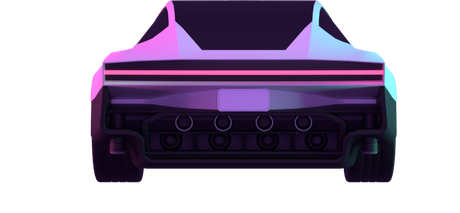
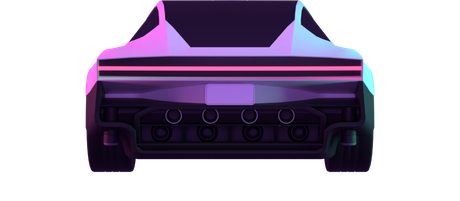
Car centred on a slightly wider road; CPU chip on screen on the site (#52)
* Even spacing between Featured Work and Stack cards

Cards were written in pairs with a blank line between pairs, so on a phone
the gap inside a pair was tiny and the gap between pairs was a full
paragraph. All cards now sit in one block, and each card SVG carries a
6px built-in margin so every gap is the same, stacked or side by side.

Claude-Session: https://claude.ai/code/session_014y4cba1N6RJ7D9zfaNMGCJ

* Even spacing between Focus Areas cards

The three Focus Areas cards stacked touching on a phone. They now carry
the same 6px built-in margin as the project and Stack cards; the desktop
cards are 12px narrower so, margin included, three still fit in a row.

Claude-Session: https://claude.ai/code/session_014y4cba1N6RJ7D9zfaNMGCJ

* Export the hero scene and contribution city for markusweldon.com

build_images.py takes an optional second folder and writes the site
hero's horizon strips there: the same Portland skyline, Mt Hood and
Silicon Forest as the README header, on a transparent background, with
Hood solid so it can stand in front of the site's sun. The scene's
gradients and filters move into SCENE_DEFS so both use them. The README
images are unchanged.

The metrics workflow also cuts the isometric contribution city out of
the Stats card each day (extract_isocalendar.py) and publishes it as
isocalendar.svg on the metrics branch, for the site to show.

Claude-Session: https://claude.ai/code/session_014y4cba1N6RJ7D9zfaNMGCJ
[…]

diff --git a/.github/scripts/build_images.py b/.github/scripts/build_images.py
@@ -645,7 +645,7 @@ def silicon_fir(x: float, h: float, w: float, base: float) -> tuple[str, str, li
             boughs)
 
 
-def treeline(avoid=(), clear=None, density: float = 1, thin: bool = True) -> str:
+def treeline(avoid=(), clear=None, density: float = 1, thin: bool = True, cpu_near: float | None = None) -> str:
     """The Silicon Forest: circuit-trace firs along the horizon. Trees under
     the text are kept below it, and none stand in front of the city
     (clear = its x range)."""
@@ -711,7 +711,11 @@ def treeline(avoid=(), clear=None, density: float = 1, thin: bool = True) -> str
     left_side = [t for t in front if t[1] > 22 and (not clear or t[0] < clear[0] - 10) and t[0] > 40]
     pick = left_side or [t for t in front if t[1] > 22 and t[0] > 40]
     if pick:
-        x, _, _ = pick[len(pick) // 2]
+        # By default the middle of the trees left of the city; cpu_near picks
+        # the one nearest that x instead (the site's wide strip is mostly
+        # off-screen, so it asks for one close to the city).
+        x, _, _ = (min(pick, key=lambda t: abs(t[0] - cpu_near)) if cpu_near is not None
+                   else pick[len(pick) // 2])
         size = 13
         cx, cy = x - 9 - size, HORIZON - size - 3
         pins = []
@@ -776,7 +780,7 @@ def grid() -> tuple[str, str]:
     The receding lines fan out across the whole width at the horizon (none
     stop short of the sides), and the rolling lines start right at the
     horizon, so there's no empty band beneath it.
-    Down the middle runs a neon road about two car-widths wide: a darker
+    Down the middle runs a neon road under three car-widths wide: a darker
     surface between two glowing pink edges, crossed by the rolling lines."""
     parts = []
     reach = math.ceil(HW / 2 / 14) + 2      # enough receding lines to cover the horizon edge to edge
@@ -799,9 +803,10 @@ def grid() -> tuple[str, str]:
                      f'style="animation-delay:-{k * period:.2f}s"/>')
         y = HORIZON + depth / far ** (1 - (k + 0.5) / lines)
         parts.append(f'<line class="hs" x1="0" y1="{y:.1f}" x2="{HW}" y2="{y:.1f}"/>')
-    # The road's edges follow receding lines +-1, so where the car sits it is
-    # about twice the car's width.
-    l0, l1, r0, r1 = HW / 2 - 14, HW / 2 - 150, HW / 2 + 14, HW / 2 + 150
+    # The road's edges sit ROAD receding-line spacings either side of the
+    # centre, so where the car sits it is about 2.7 car widths wide.
+    ROAD = 1.35
+    l0, l1, r0, r1 = HW / 2 - 14 * ROAD, HW / 2 - 150 * ROAD, HW / 2 + 14 * ROAD, HW / 2 + 150 * ROAD
     parts.append(f'<defs><linearGradient id="roadFill" x1="0" y1="0" x2="0" y2="1">'
                  f'<stop offset="0" stop-color="{BG}" stop-opacity="0.35"/>'
                  f'<stop offset="1" stop-color="{BG}" stop-opacity="0.75"/></linearGradient>'
@@ -1409,7 +1414,10 @@ def site_horizon(width: float, height: float, hood_x: float, scale: float, densi
     low = [(0, 0, clear[0], height - 54)] if density > 1 else []   # under the text column
     scene = portland(x0, scale, hood_opacity=1, hood_to_ground=True, layer="all" if layer == "all" else layer) \
         if layer != "trees" else ""
-    trees = treeline(low, clear, density, thin=density == 1) if layer in ("all", "trees") else ""
+    # On the wide desktop strip, the chip goes on a tree just left of the city,
+    # inside what a 1024px-and-up screen shows.
+    cpu = clear[0] - 130 if density > 1 else None
+    trees = treeline(low, clear, density, thin=density == 1, cpu_near=cpu) if layer in ("all", "trees") else ""
     body = f"<style>{SCENE_CSS}</style>\n<defs>\n{SCENE_DEFS}</defs>\n{scene}\n{trees}"
     HW, HORIZON = saved
     return svg(width, height, body)

diff --git a/.github/scripts/render_roadster.py b/.github/scripts/render_roadster.py
@@ -262,6 +262,11 @@ def render_rear(sc):
     ims = [Image.open(f).convert("RGBA") for f in (car, shadow)]
     box = ims[1].getchannel("A").point(lambda v: 255 if v > 40 else 0).getbbox()   # the shadow's body, not its faint tails
     contact = project(sc, cam, (1.80, 0.0, 0.0))     # the ground under the rear axle, where the tyres touch
+    # Centre the crop on the car's centreline: its shadow spreads further to
+    # one side (the lights are off-centre), and a crop fitted to the shadow
+    # would put the car off-centre in its image, and so off-centre on the road.
+    half = max(contact[0] - box[0], box[2] - contact[0])
+    box = (round(contact[0] - half), box[1], round(contact[0] + half), box[3])
     left, right = (project(sc, cam, (2.68, y, 0.0)) for y in (-CAR_W / 2, CAR_W / 2))
     scale = 460 / (box[2] - box[0])
     for f, im in zip((car, shadow), ims):

diff --git a/readme.md b/readme.md
@@ -1,6 +1,6 @@
 <div align="center">
 
-<picture><source media="(max-width: 640px)" srcset="images/header-phone.svg?v=17"><img src="images/header.svg?v=17" width="100%" alt="Markus Weldon. A terminal types: Principal Solutions Engineer · Securing Agentic AI Development · AppSec · Cloud · Cybersecurity · Enterprise GTM · Technical Pre-Sales · Ship Faster With AI, Securely. Helping enterprises adopt AI-assisted development securely. Brit builder, Lake Oswego, Oregon."></picture>
+<picture><source media="(max-width: 640px)" srcset="images/header-phone.svg?v=18"><img src="images/header.svg?v=18" width="100%" alt="Markus Weldon. A terminal types: Principal Solutions Engineer · Securing Agentic AI Development · AppSec · Cloud · Cybersecurity · Enterprise GTM · Technical Pre-Sales · Ship Faster With AI, Securely. Helping enterprises adopt AI-assisted development securely. Brit builder, Lake Oswego, Oregon."></picture>
 
 <a href="https://markusweldon.com"><img src="images/btn-website.svg" alt="Website: markusweldon.com"></a>
 <a href="https://github.com/markusweldon"><img src="images/btn-github.svg" alt="Follow @markusweldon on GitHub"></a>
